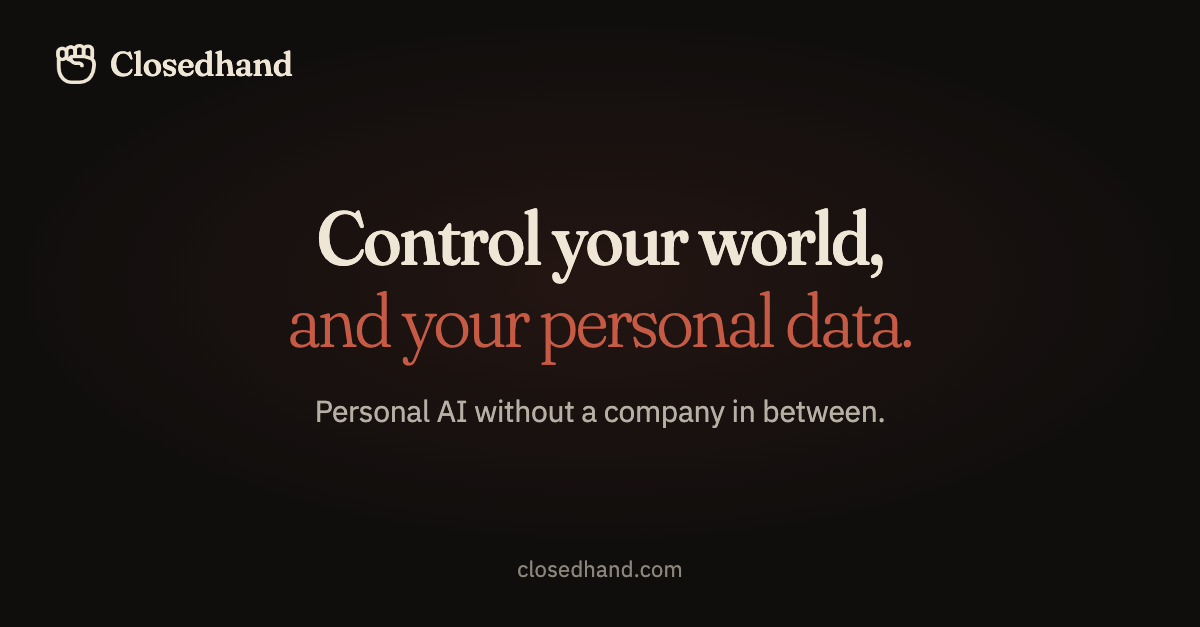
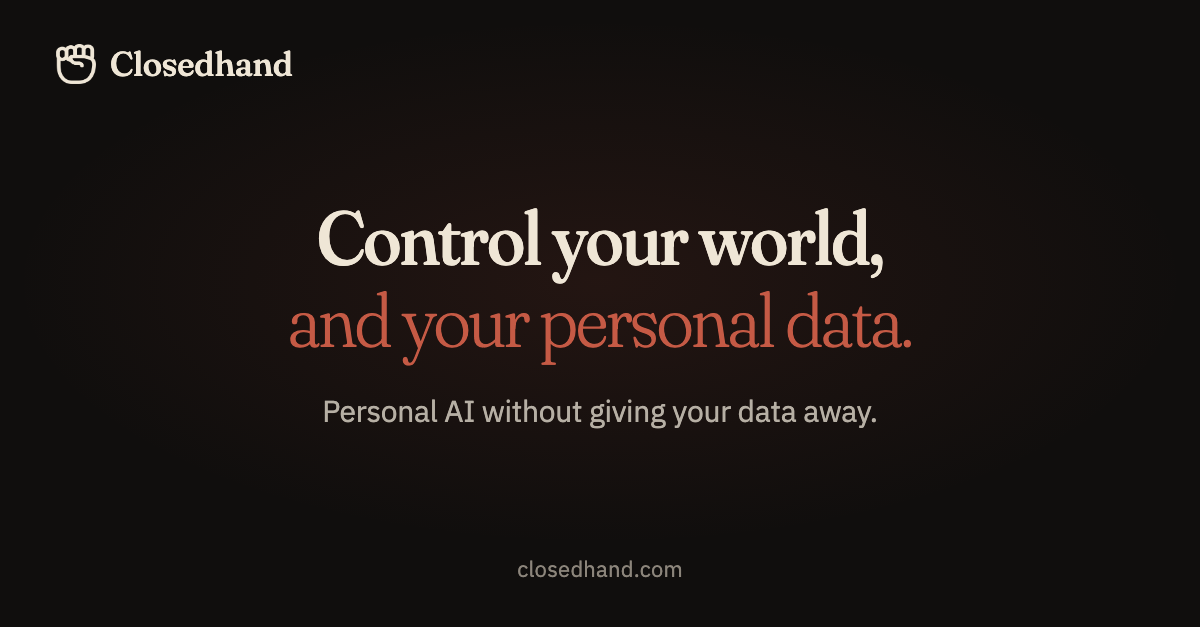
The home page says Personal AI without giving your data away
"Without a company in between" stops being true for anyone whose searches
or mail pass through closedhand.com, so the line under the heading, the
page's description and the link-preview image say what holds for everyone:
the person's data stays theirs.

Changed region(s): [[0.2467, 0.6364, 0.74, 0.697]]

diff --git a/closedhand-com/views/home.html b/closedhand-com/views/home.html
@@ -5,11 +5,11 @@
 <meta name="viewport" content="width=device-width, initial-scale=1.0, maximum-scale=1.0, viewport-fit=cover">
 <script src="/handheld.js"></script>
 <title>Closedhand</title>
-<meta name="description" content="Your own proactive personal assistant, running on a computer you control with no company in between. Open source.">
+<meta name="description" content="Your own proactive personal assistant, running on a computer you control, without giving your data away. Open source.">
 <meta property="og:type" content="website">
 <meta property="og:site_name" content="Closedhand">
 <meta property="og:title" content="Closedhand">
-<meta property="og:description" content="Your own proactive personal assistant, running on a computer you control with no company in between. Open source.">
+<meta property="og:description" content="Your own proactive personal assistant, running on a computer you control, without giving your data away. Open source.">
 <meta property="og:url" content="https://closedhand.com/">
 <meta property="og:image" content="https://closedhand.com/og.png">
 <meta property="og:image:width" content="1200">
@@ -893,7 +893,7 @@ body.chat-active .mon-area { display:none; }
   <div class="hero-area" id="heroSection">
     <div class="hero-space-top" style="flex:0.55"></div>
     <div class="hero-heading"><span class="hero-heading-first">Control your world,</span><span class="hero-heading-more" id="heroMore">and your personal data.</span></div>
-    <div class="hero-heading-sub">Personal AI without a company in between.</div>
+    <div class="hero-heading-sub">Personal AI without giving your data away.</div>
 
     <!-- Phones and tablets: the Closedhand someone already uses, one tap
          away, with the smoke ring drifting round the fist. On a phone that
